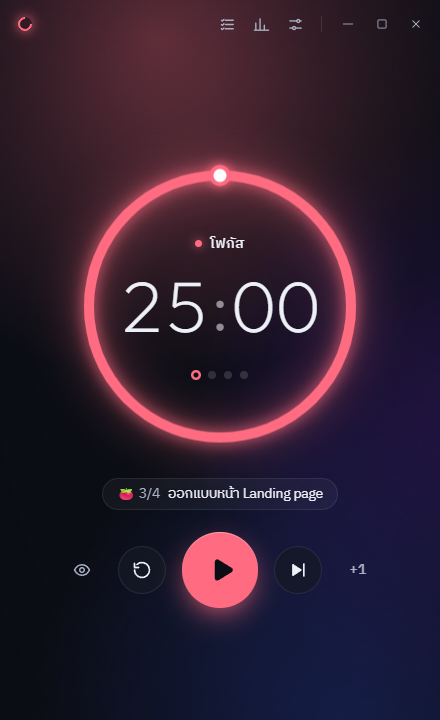
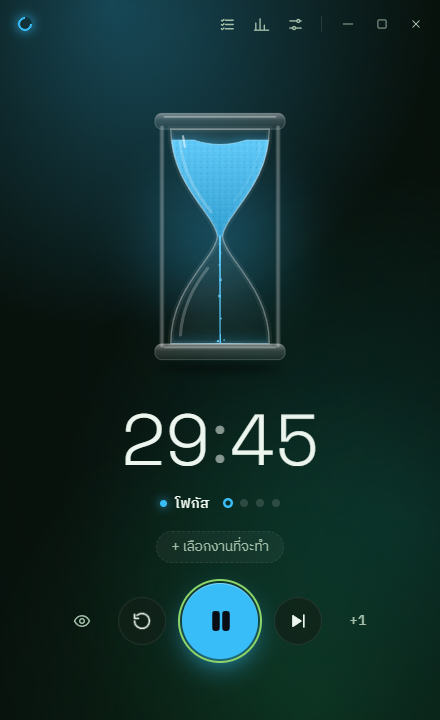
README: use a real screenshot of the app

diff --git a/README.md b/README.md
@@ -4,9 +4,7 @@
 
 **Pomodoro คืออะไร?** ทำงานแบบโฟกัส 25 นาที แล้วพัก 5 นาที ทำครบ 4 รอบได้พักยาว ช่วยให้ทำงานได้นานโดยไม่ล้า
 
-| จับเวลา | รายการงาน | สถิติ | ตั้งค่า |
-|:---:|:---:|:---:|:---:|
-| <img src="docs/screenshots/timer.png" width="200" alt="หน้าจับเวลา"> | <img src="docs/screenshots/tasks.png" width="200" alt="หน้ารายการงาน"> | <img src="docs/screenshots/stats.png" width="200" alt="หน้าสถิติ"> | <img src="docs/screenshots/settings.png" width="200" alt="หน้าตั้งค่า"> |
+<p align="center"><img src="docs/screenshots/timer.png" width="320" alt="หน้าจับเวลาแบบนาฬิกาทราย"></p>
 
 ## ดาวน์โหลด
 
